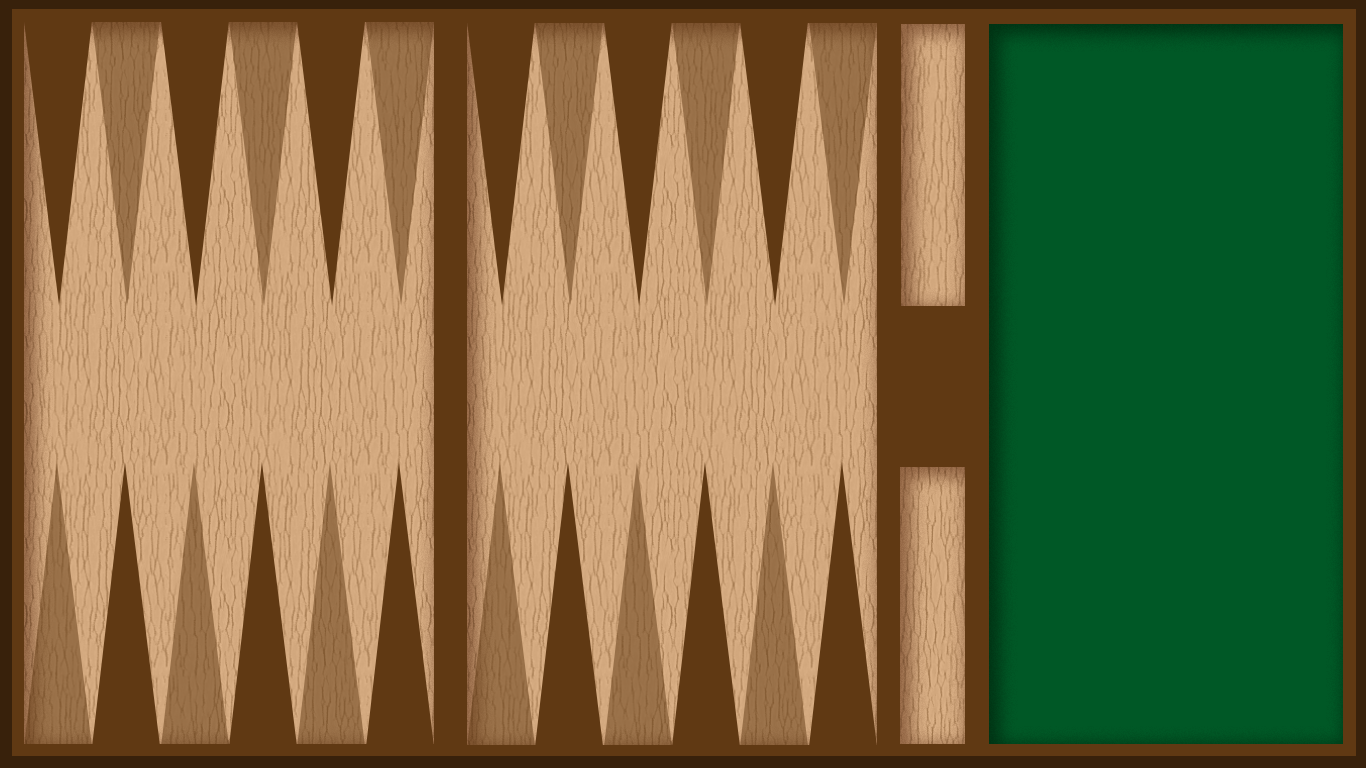
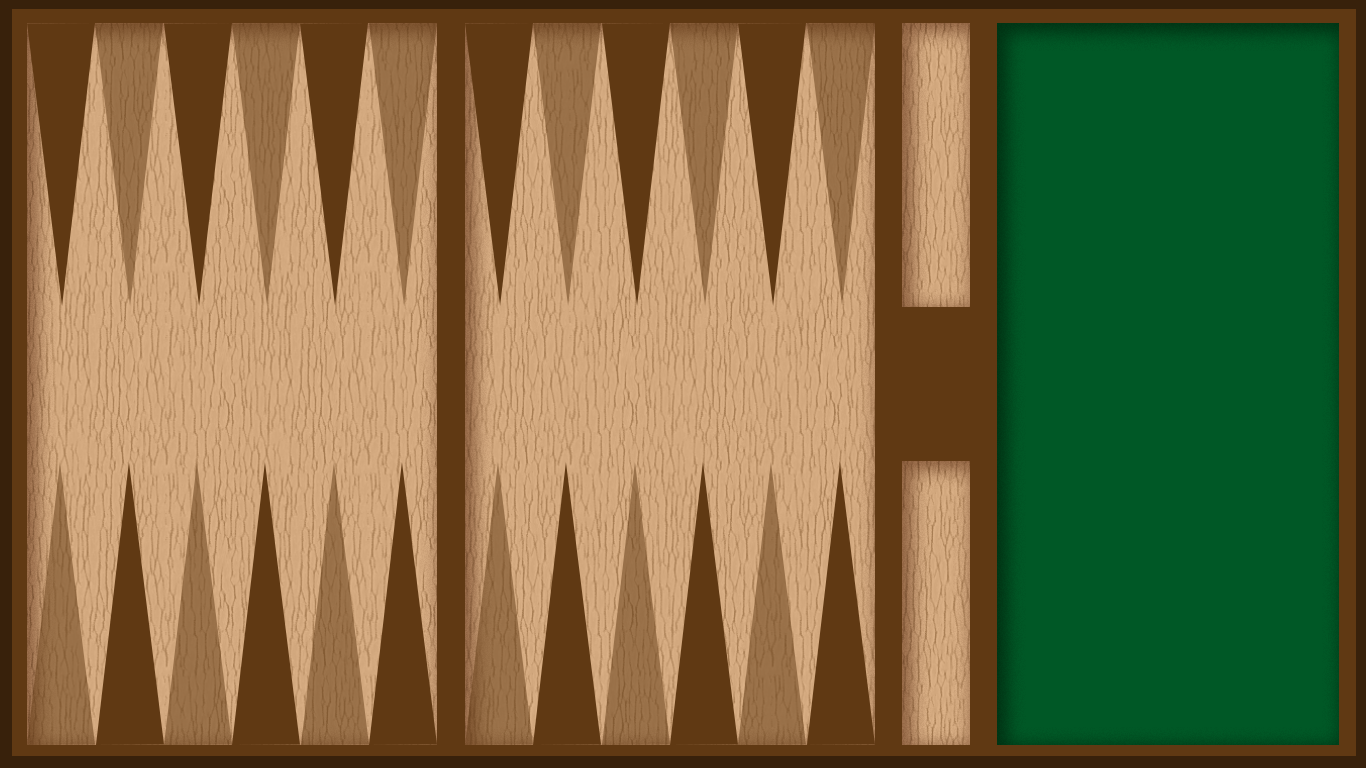
CS edit coordinates containers

diff --git a/packages/backgammon/src/config.ts b/packages/backgammon/src/config.ts
@@ -28,11 +28,11 @@ export const COLORS = {
 
 export const PIXEL = 0.02; // 1 square = 2 unit.
 
-const TOP_BLOCK_START_Y = 1;
-const LEFT_CONTAINER_START_X = 1;
+const TOP_BLOCK_START_Y = 1.5;
+const LEFT_CONTAINER_START_X = 33.05;
+const CONTAINER_HEIGHT = 18.5;
+const CONTAINER_WIDTH = 2.45;
 const BOTTOM_BLOCK_START_Y = 49;
-const CONTAINER_HEIGHT = 17;
-const CONTAINER_WIDTH = 3;
 const TRIANGLE_WIDTH = 3;
 const TRIANGLE_HEIGHT = 20;
 const RIGHT_BLOCK_TRIANGLE_END_X = 39 + TRIANGLE_WIDTH;
@@ -43,8 +43,6 @@ const PLAYERS_LABEL_HEIGHT = 6;
 const PLAYERS_LABEL_POINT_HEIGHT = PLAYERS_LABEL_HEIGHT / 3;
 const LEFT_BLOCK_START_X = 5;
 const LEFT_BLOCK_END_X = 20;
-const BLOCK_WIDTH = 18;
-const BLOCK_HEIGHT = 48;
 const RIGHT_BLOCK_START_X = 24;
 export const OFFSETS = {
     /*
@@ -55,7 +53,7 @@ export const OFFSETS = {
 
     // Y offet
     TOP_CONTAINER_START_Y: TOP_BLOCK_START_Y,
-    BOTTOM_CONTAINER_START_Y: 49,
+    BOTTOM_CONTAINER_START_Y: 48.5,
     BOTTOM_BLOCK_START_Y,
 
     // X offset
@@ -71,22 +69,6 @@ export const OFFSETS = {
      *
      */
 
-    // block
-    BLOCKS: Array(2)
-        .fill({
-            x: LEFT_BLOCK_START_X,
-            y: TOP_BLOCK_START_Y,
-            height: BLOCK_HEIGHT,
-            width: BLOCK_WIDTH,
-            shadowColor: 'black',
-            shadowBlur: 10,
-            cornerRadius: 10,
-            color: COLORS.BOARD_INNER,
-        })
-        .map((container, i) => ({
-            ...container,
-            x: i > 0 ? RIGHT_BLOCK_START_X : container.x,
-        })),
     LEFT_BLOCK_END_X,
     LEFT_BLOCK_START_X,
     RIGHT_BLOCK_START_X,

diff --git a/packages/backgammon/src/app/slices/measures/measures.ts b/packages/backgammon/src/app/slices/measures/measures.ts
@@ -1,7 +1,6 @@
 import { createSlice, PayloadAction } from '@reduxjs/toolkit';
 import { PIXEL } from '../../../config';
 import {
-    calculateBlocks,
     calculateContainers,
     calculateSidebar,
     calculateSizes,
@@ -10,13 +9,11 @@ import {
 } from './utils';
 
 const sizes = calculateSizes();
-const blocks = calculateBlocks(sizes);
 const containers = calculateContainers(sizes);
 const triangles = calculateTriangles(sizes);
 const sidebar = calculateSidebar(sizes);
 const unit = calculateUnit(sizes, PIXEL);
 
-export type Blocks = typeof blocks;
 export type Containers = typeof containers;
 export type Triangles = typeof triangles;
 export type Sidebar = typeof sidebar;
@@ -24,7 +21,6 @@ export type Unit = typeof unit;
 export type Pixel = typeof PIXEL;
 
 interface Measures {
-    blocks: Blocks;
     containers: Containers;
     triangles: Triangles;
     sidebar: Sidebar;
@@ -34,7 +30,6 @@ interface Measures {
 }
 
 const initialState: Measures = {
-    blocks,
     containers,
     triangles,
     sidebar,

diff --git a/packages/backgammon/src/views/game/components/Board/components/Basement/Basement.tsx b/packages/backgammon/src/views/game/components/Board/components/Basement/Basement.tsx
@@ -1,11 +1,8 @@
 import React from 'react';
-import { Image, Rect } from 'react-konva';
+import { Image } from 'react-konva';
 import useImage from 'use-image';
 import { useSizes } from '../../../../../../app/slices/measures';
-import { COLORS } from '../../../../../../config';
 import board from '../../../../../../assets/board.png';
-
-const { BOARD_BORDER } = COLORS;
 
 export default function Basement(): React.ReactElement {
     const sizes = useSizes();
@@ -21,13 +18,4 @@ export default function Basement(): React.ReactElement {
             image={image}
         />
     );
-    // return (
-    //     <Rect
-    //         x={0}
-    //         y={0}
-    //         width={BOARD_WIDTH}
-    //         height={BOARD_HEIGHT}
-    //         fill={BOARD_BORDER}
-    //     />
-    // );
 }

diff --git a/packages/backgammon/src/app/slices/measures/utils/containers/containers.ts b/packages/backgammon/src/app/slices/measures/utils/containers/containers.ts
@@ -1,4 +1,4 @@
-import { COLORS, OFFSETS } from '../../../../../config';
+import { OFFSETS } from '../../../../../config';
 import { calculateSizes } from '../sizes';
 
 const {
@@ -27,13 +27,9 @@ export default function calculateContainers(
     ].map((container, key) => {
         return {
             ...container,
-            color: COLORS.BOARD_INNER,
             height: sizes.CONTAINER_HEIGHT,
             key,
             width: sizes.CONTAINER_WIDTH,
-            shadowColor: 'black',
-            shadowBlur: 10,
-            cornerRadius: 10,
         };
     });
 

diff --git a/packages/backgammon/src/views/game/components/Board/Board.tsx b/packages/backgammon/src/views/game/components/Board/Board.tsx
@@ -28,8 +28,8 @@ export default function Board() {
             <Frame>
                 <Layer>
                     <Basement />
-                    {/*
                     <Containers />
+                    {/*
                     <Blocks />
                     <Triangles />
                     <Points pLight={pLight} pDark={pDark} />

diff --git a/packages/backgammon/src/app/slices/measures/hooks/useContainers/useContainers.ts b/packages/backgammon/src/app/slices/measures/hooks/useContainers/useContainers.ts
@@ -28,6 +28,8 @@ function handleHighlightContainer(availableTriangles?: AvailableTriangles) {
         if (shouldHighlight) {
             container = Object.assign({}, container, {
                 color: COLORS.HIGHLIGHT,
+                shadowColor: 'black',
+                shadowBlur: 10,
             });
         }
 

diff --git a/packages/backgammon/src/views/game/components/Board/hooks/useMultiply.ts b/packages/backgammon/src/views/game/components/Board/hooks/useMultiply.ts
@@ -1,7 +1,5 @@
-import { useMemo } from 'react';
-
 export function useMultiply(numbers: number[]) {
-    const result = useMemo(() => numbers.reduce(numbersReducer, 1), [numbers]);
+    const result = numbers.reduce(numbersReducer, 1);
 
     return result;
 }

diff --git a/packages/backgammon/src/app/slices/measures/utils/index.ts b/packages/backgammon/src/app/slices/measures/utils/index.ts
@@ -1,4 +1,3 @@
-export { calculateBlocks } from './blocks';
 export { calculateContainers } from './containers';
 export { calculateSidebar } from './sidebar';
 export { calculateSizes } from './sizes';
